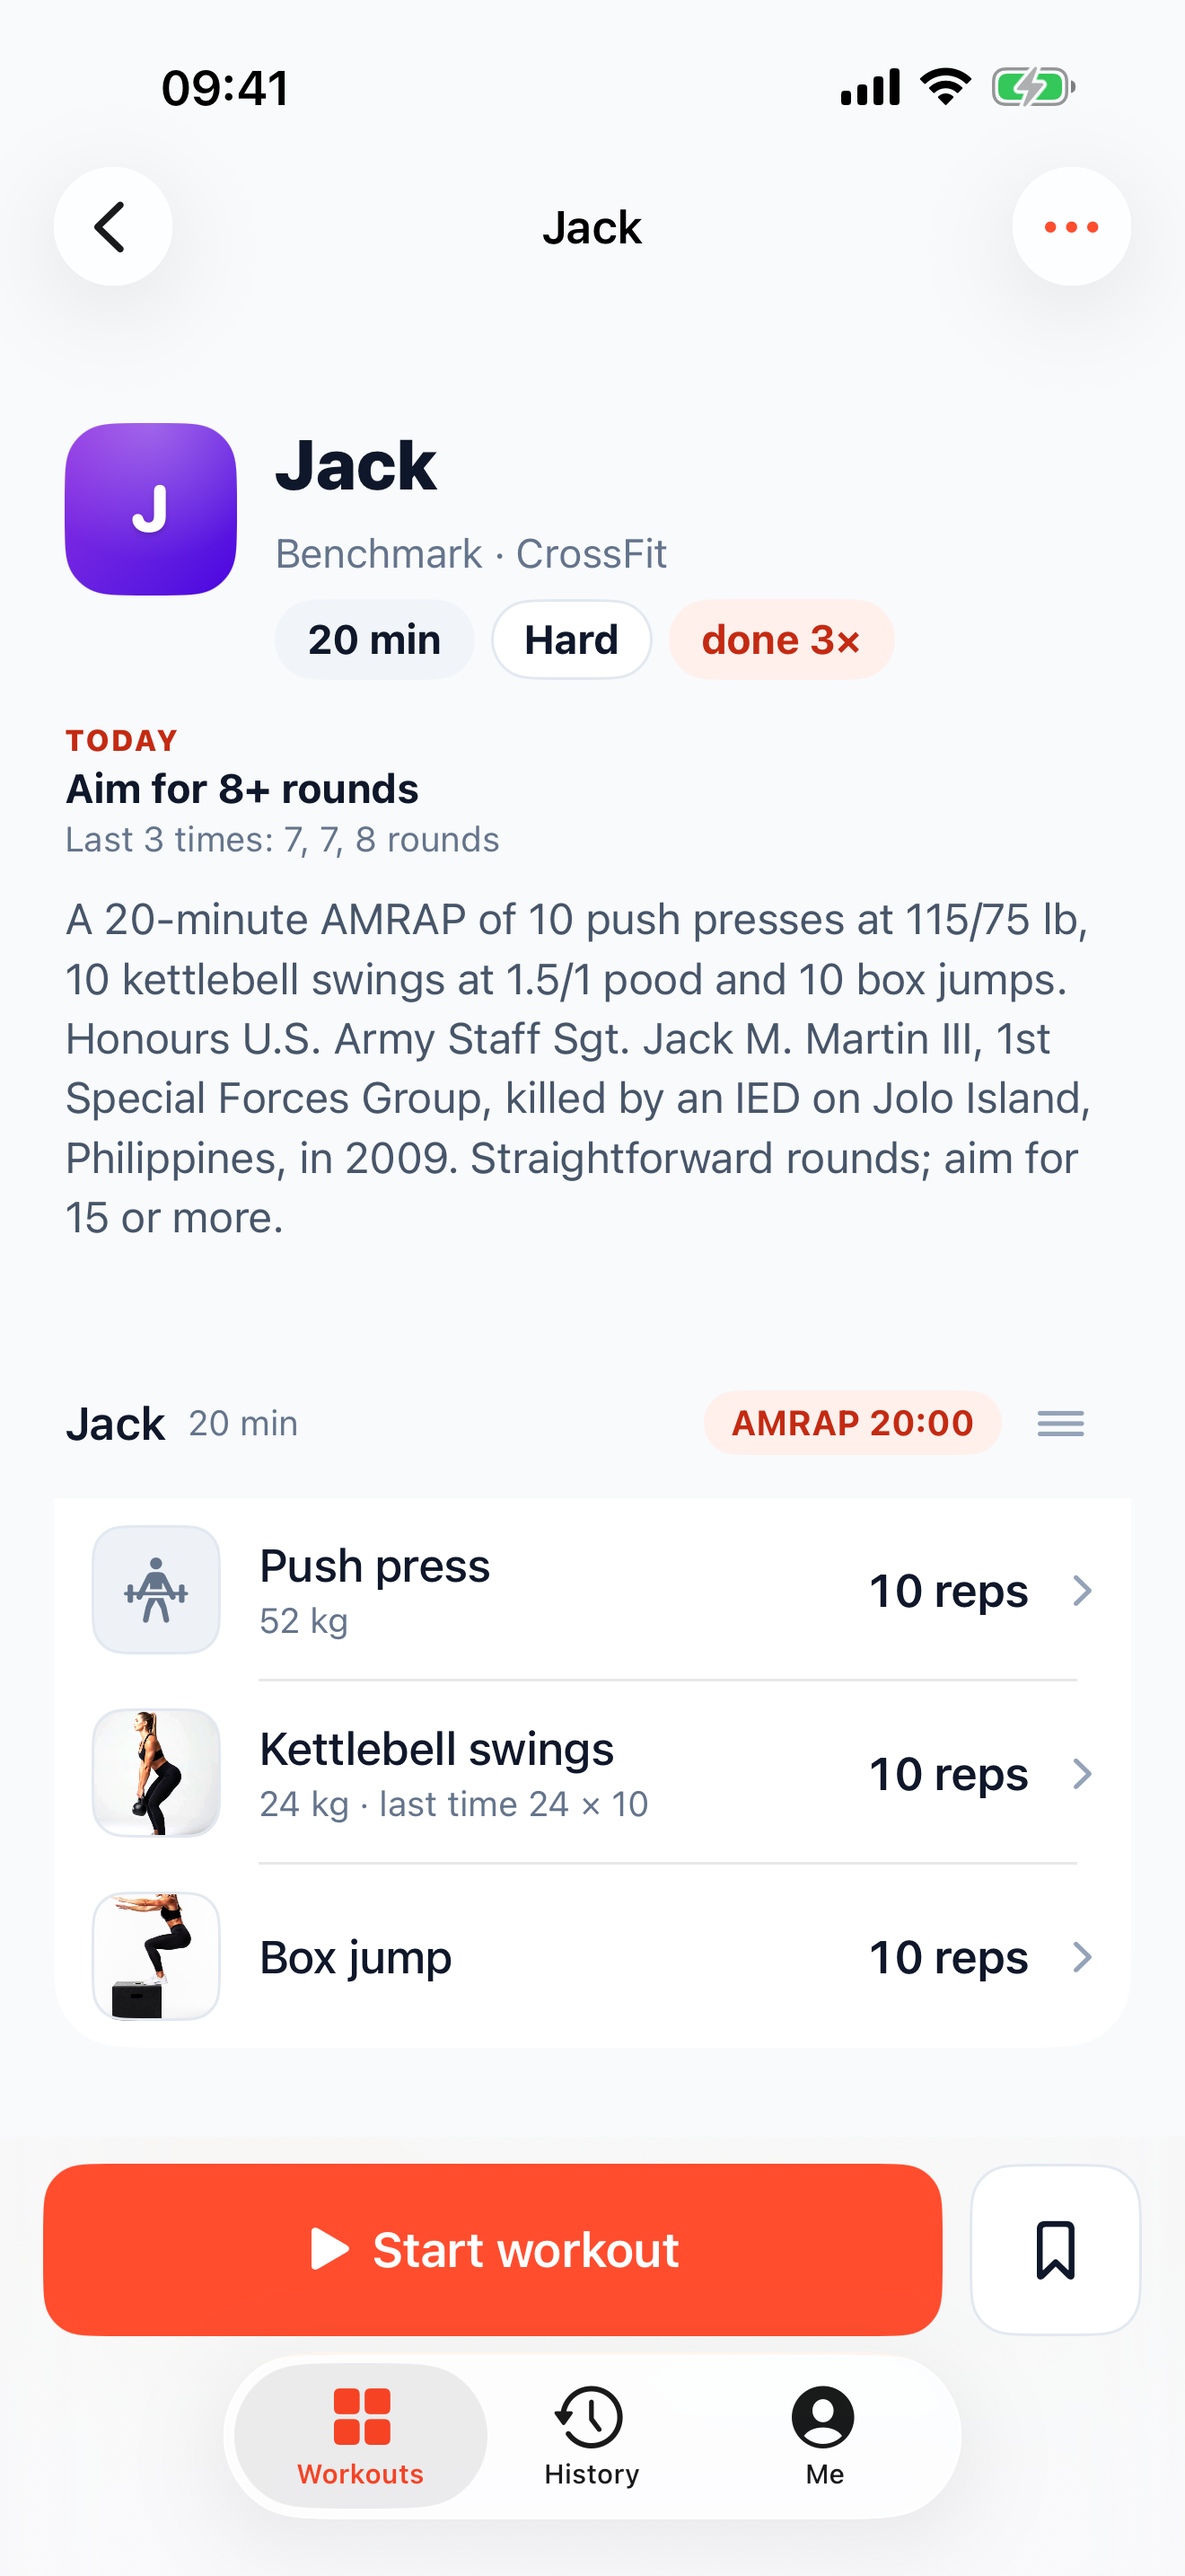
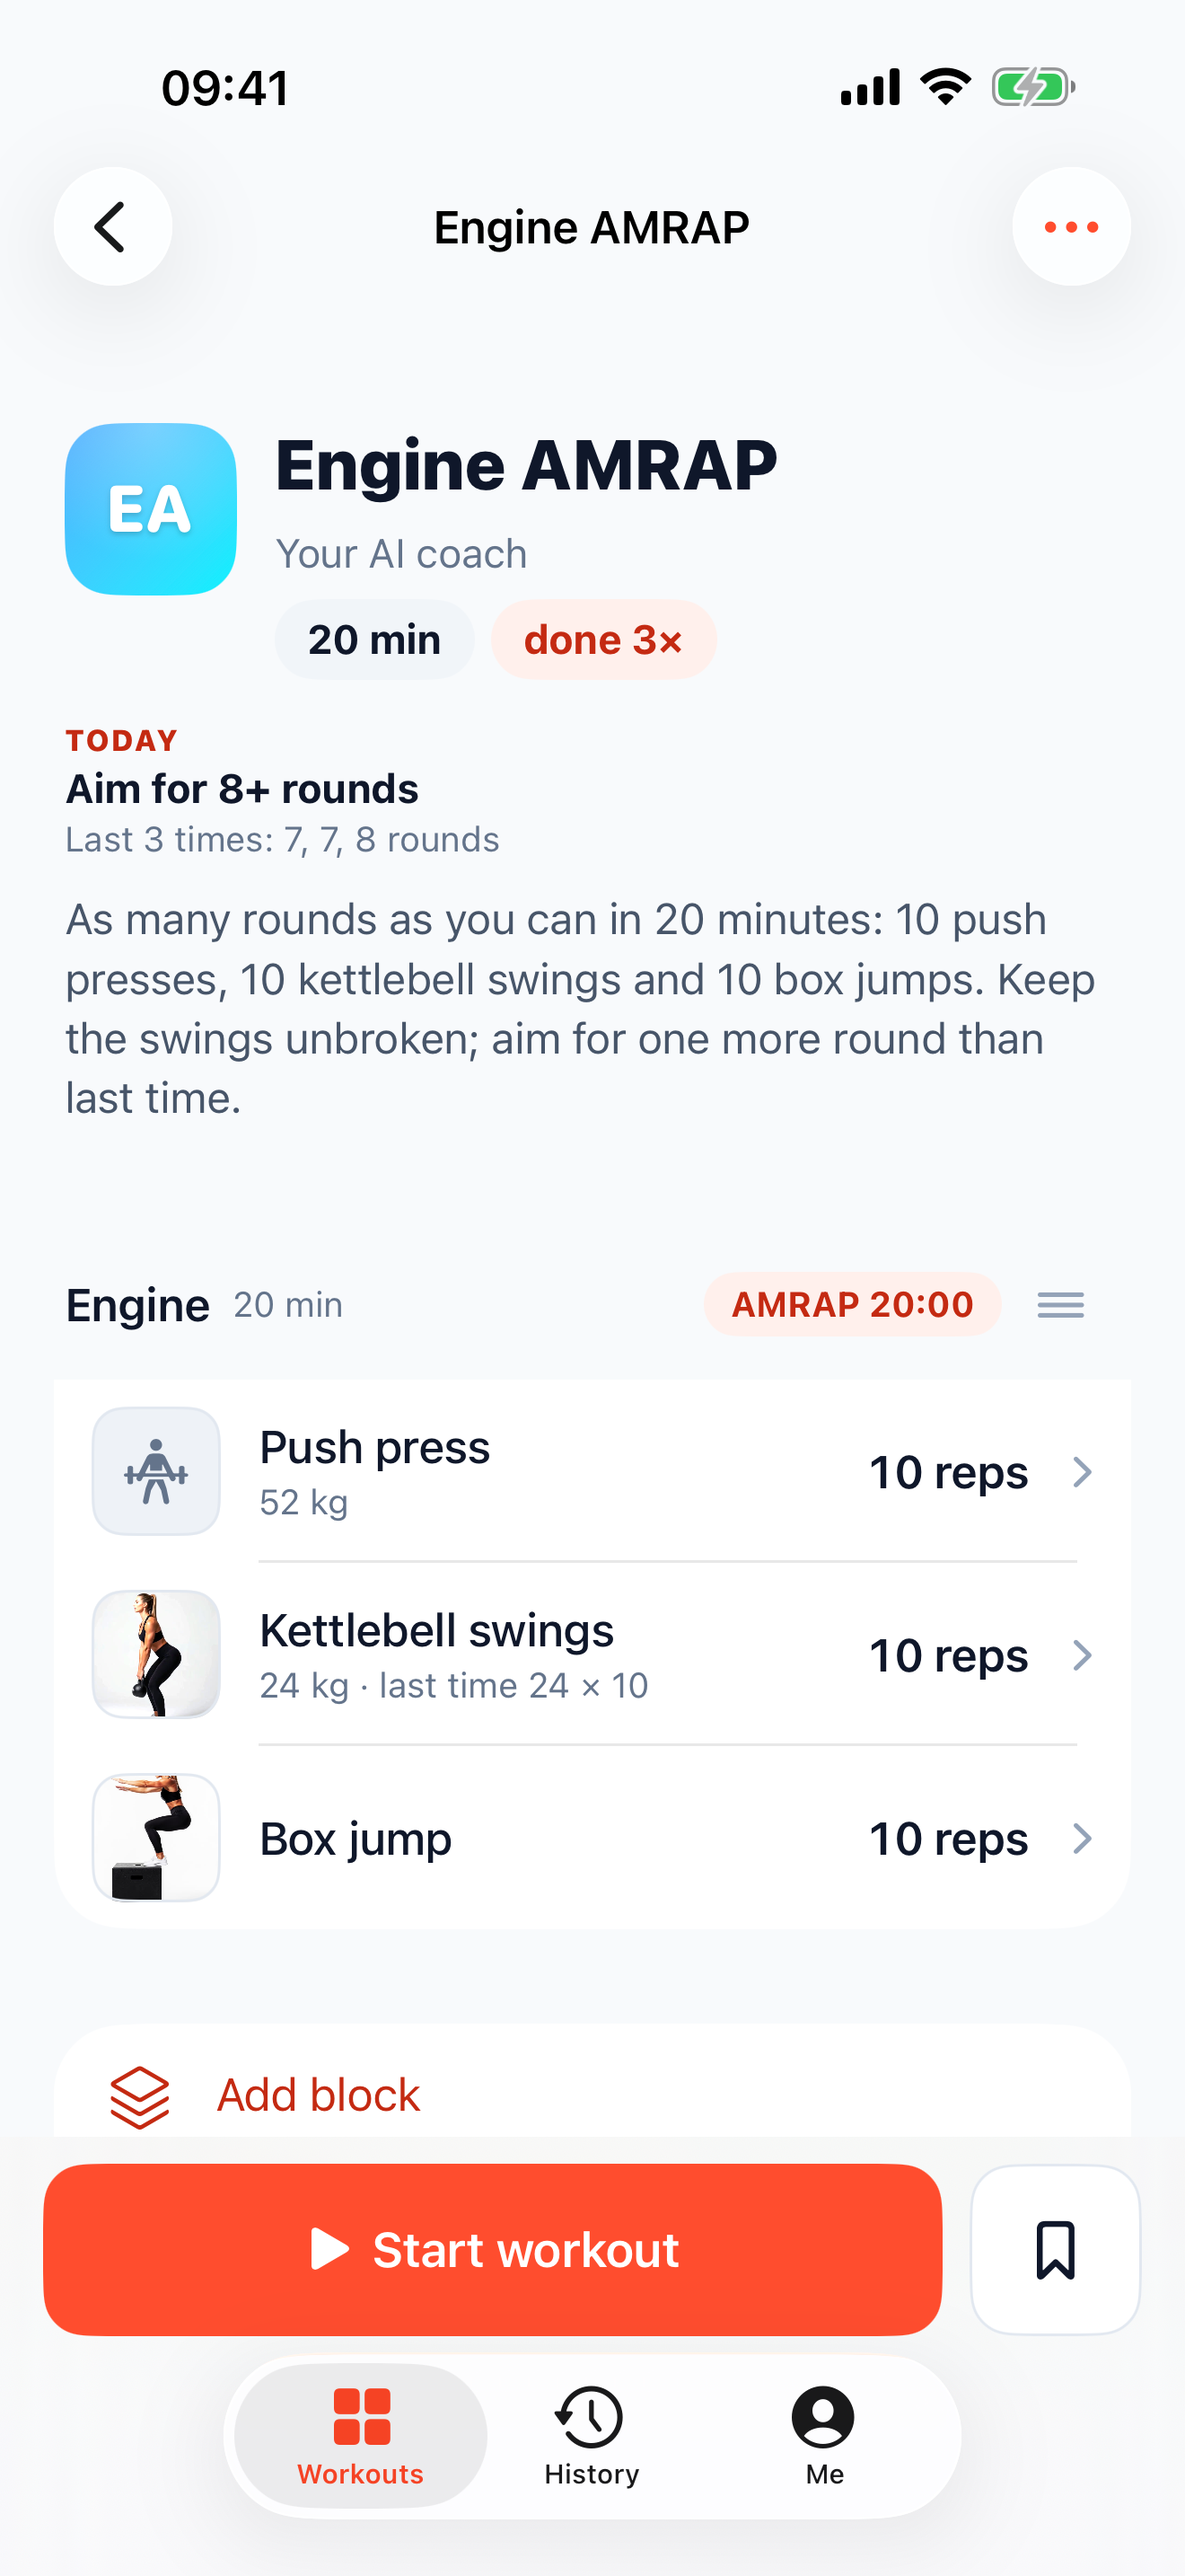
ios: App Store screenshots without CrossFit names
Seed history with Engine AMRAP, a workout from Your AI coach, instead of
CrossFit's Jack, and open Discover on Coaches. Recaptured the raw shots.

Claude-Session: https://claude.ai/code/session_01HHeMDARgQx8ywBW6rJa3bh

diff --git a/ios/TigerWorkouts/Cloud/Store+Seed.swift b/ios/TigerWorkouts/Cloud/Store+Seed.swift
@@ -82,11 +82,12 @@ extension Store {
         results = (results.filter { !ids.contains($0.rowId) } + seed).sorted { $0.startedAt > $1.startedAt }
     }
 
-    /// `-seedProgress` on launch: Jack (a 20-minute AMRAP) three times at 7, 7 and 8 rounds, the
-    /// newest a minute back so Up next picks it with a Today target, and kettlebell swings stuck at
-    /// 24 kg × 10 for five weeks — three sessions of their own plus the swings inside each Jack — so
-    /// the card has a stall line and the logbook a stall card. Fixed ids: launching with it again
-    /// replaces them.
+    /// `-seedProgress` on launch: "Engine AMRAP" (a 20-minute AMRAP your AI coach wrote) three times
+    /// at 7, 7 and 8 rounds, the newest a minute back so Up next picks it with a Today target, and
+    /// kettlebell swings stuck at 24 kg × 10 for five weeks — three sessions of their own plus the
+    /// swings inside each AMRAP — so the card has a stall line and the logbook a stall card. Not a
+    /// catalogue workout, so the App Store screenshots carry no third-party names. Fixed ids:
+    /// launching with it again replaces them.
     func seedProgressIfAsked(_ arguments: [String] = ProcessInfo.processInfo.arguments) {
         guard arguments.contains("-seedProgress") else { return }
         let day: TimeInterval = 86_400
@@ -100,9 +101,23 @@ extension Store {
                           steps: [swings(3)], id: "seed-progress-swings-\(Int(d))")
         }
         for (d, rounds) in [(14.0, 7.0), (7.0, 7.0), (60.0 / day, 8.0)] {
-            seed.append(SessionResult(runsheetId: "cf-hero-jack", title: "Jack", startedAt: ago(d), durationSec: 1_200, completed: true,
-                                      score: rounds, steps: [swings(Int(rounds))], id: "seed-progress-jack-\(Int(d))"))
+            seed.append(SessionResult(runsheetId: "seed-amrap", title: "Engine AMRAP", startedAt: ago(d), durationSec: 1_200, completed: true,
+                                      score: rounds, steps: [swings(Int(rounds))], id: "seed-progress-amrap-\(Int(d))"))
         }
+        func ex(_ key: String, _ name: String, _ step: Double) -> ExerciseRef {
+            Library.shared.exercise(key)?.ref ?? ExerciseRef(key: key, name: name, unit: "kg", step: step)
+        }
+        let steps: [Step] = [
+            .exercise(ExerciseStep(id: "s1", exercise: ex("bb_push_press", "Push press", 2.5), target: 52, forMode: .reps, forValue: 10)),
+            .exercise(ExerciseStep(id: "s2", exercise: ex("kb_swing", "Kettlebell swings", 4), target: 24, forMode: .reps, forValue: 10)),
+            .exercise(ExerciseStep(id: "s3", exercise: ex("bw_box_jump", "Box jump", 1), forMode: .reps, forValue: 10)),
+        ]
+        var sheet = Runsheet(id: "seed-amrap", title: "Engine AMRAP", items: [
+            .block(Block(id: "seed-amrap-b1", name: "Engine", mode: .amrap, steps: steps, timeCapSec: 1_200)),
+        ])
+        sheet.creator = "Your AI coach"
+        sheet.description = "As many rounds as you can in 20 minutes: 10 push presses, 10 kettlebell swings and 10 box jumps. Keep the swings unbroken; aim for one more round than last time."
+        myWorkouts = [sheet] + myWorkouts.filter { $0.key != "seed-amrap" }
         let ids = Set(seed.compactMap(\.id))
         results = (results.filter { !ids.contains($0.rowId) } + seed).sorted { $0.startedAt > $1.startedAt }
     }

diff --git a/ios/TigerWorkoutsUITests/WalkthroughUITests.swift b/ios/TigerWorkoutsUITests/WalkthroughUITests.swift
@@ -1390,7 +1390,7 @@ final class WalkthroughUITests: XCTestCase {
         add(shot)
     }
 
-    /// Today's target and a stall, from seeded history: Jack at 7, 7 and 8 rounds, kettlebell swings
+    /// Today's target and a stall, from seeded history: Engine AMRAP at 7, 7 and 8 rounds, kettlebell swings
     /// stuck at 24 kg × 10 for five weeks.
     func testProgress() {
         app.terminate()
@@ -1407,7 +1407,7 @@ final class WalkthroughUITests: XCTestCase {
         snap("61 Exercise logbook with a stall")
         tap(app.tabBars.buttons["Workouts"])
 
-        open("Jack")
+        open("Engine AMRAP")
         XCTAssertTrue(app.descendants(matching: .any)["today-target"].waitForExistence(timeout: 5), "the workout page should carry the Today target")
         snap("62 Workout page with Today")
         tap(app.buttons["Start workout"])

diff --git a/ios/TigerWorkoutsUITests/AppStoreScreenshotsUITests.swift b/ios/TigerWorkoutsUITests/AppStoreScreenshotsUITests.swift
@@ -20,11 +20,13 @@ final class AppStoreScreenshotsUITests: XCTestCase {
     func testAppStoreScreenshots() {
         XCTAssertTrue(app.navigationBars["Workouts"].waitForExistence(timeout: 10))
         tap(app.buttons["Discover"])
+        tap(app.buttons["Coaches"])
         sleep(2)
         snap("01-discover")
+        tap(app.buttons["All"])
         tap(app.buttons["Mine"])
 
-        open("Jack")
+        open("Engine AMRAP")
         XCTAssertTrue(app.descendants(matching: .any)["today-target"].waitForExistence(timeout: 5))
         sleep(1)
         snap("04-today-target")
